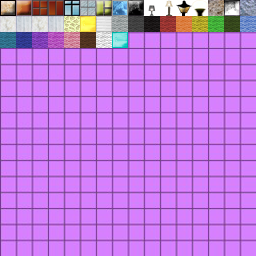
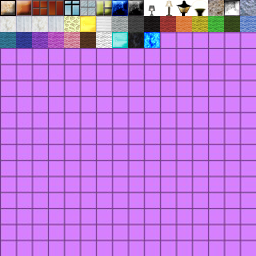
Updated to v1.2

Changed region(s): [[0.5, 0.125, 0.625, 0.1875], [0.4375, 0.0, 0.5, 0.0625]]

diff --git a/mod_CarpenterCraft.java b/mod_CarpenterCraft.java
@@ -16,6 +16,7 @@ public void load() {
 	MinecraftForgeClient.preloadTexture("/contractorcraft/gui/items.png");
 	ModLoader.setInGameHook(this, true, false);
 	ModLoader.setInGUIHook(this, true, false);
+	
 	/**  BLOCKS  **/
 	
 	/* Tiles */
@@ -108,6 +109,18 @@ public void load() {
 	ModLoader.addRecipe(new ItemStack(ContractAddBlocks.marbleBlock, 1),
 	new Object [] {"###", "###", "###", Character.valueOf('#'), ContractAddItems.marbleRock});
     
+	// Black Marble Block //
+	ModLoader.registerBlock(ContractAddBlocks.bmarbleBlock);
+	ModLoader.addName(ContractAddBlocks.bmarbleBlock, "Marble Block");
+	ModLoader.addShapelessRecipe(new ItemStack(ContractAddBlocks.bmarbleBlock, 1),
+    new Object[] {new ItemStack(ContractAddBlocks.marbleBlock, 1), new ItemStack(Item.dyePowder, 1, 0)});
+	
+	// Blue Marble Block //
+	ModLoader.registerBlock(ContractAddBlocks.blmarbleBlock);
+	ModLoader.addName(ContractAddBlocks.blmarbleBlock, "Marble Block");
+	ModLoader.addShapelessRecipe(new ItemStack(ContractAddBlocks.blmarbleBlock, 1),
+    new Object[] {new ItemStack(ContractAddBlocks.marbleBlock, 1), new ItemStack(Item.dyePowder, 1, 4)});
+		
     // Travertine Block //
     ModLoader.registerBlock(ContractAddBlocks.travertineBlock);
     ModLoader.addName(ContractAddBlocks.travertineBlock, "Travertine Block");
@@ -341,6 +354,14 @@ public void load() {
 	ModLoader.addRecipe(new ItemStack(ContractAddBlocks.rWoolSlab, 6),
 	new Object [] {"   ", "   ", "###", Character.valueOf('#'), new ItemStack(Block.cloth, 1, 14)});
 	
+	/* Pillars */
+	// Marble //
+	ContractPillarRender marblePillar = new ContractPillarRender();
+	ModLoader.registerTileEntity(net.minecraft.src.ContractTileEntity.class, "marblePillarEntity", marblePillar);
+	ModLoader.addName(ContractAddItems.marblePillar, "Marble Pillar");
+	ContractAddItems.marblePillar.iconIndex = ModLoader.addOverride("/gui/items.png", "/carpentercraft/sb/pillaritem.png");
+    ModLoader.addRecipe(new ItemStack(ContractAddItems.marblePillar, 3),
+    new Object [] {" # ", " # ", " # ", Character.valueOf('#'), ContractAddBlocks.marbleBlock});
 	
 	/* Other */
     
@@ -384,9 +405,7 @@ public void load() {
     ModLoader.addShapelessRecipe(new ItemStack(ContractAddItems.rawtTile2, 4),
     new Object[] {new ItemStack(ContractAddItems.rawtTile, 1)});
     
-    //testballs//
-    ModLoader.registerBlock(ContractAddBlocks.cornertest);
-    ModLoader.addName(ContractAddBlocks.cornertest, "corner Test");
+
 
 	
 
@@ -409,12 +428,12 @@ public void generateSurface(World world, Random random, int chunkX, int chunkZ)
                     (new WorldGenMinable(ContractAddBlocks.marble.blockID, 10)).generate(world, random, randPosX, randPosY, randPosZ);
               
             }
-        }
+}
 
 
 public String getVersion() {
 
-		return "v1.1 for Minecraft 1.2.5";
+		return "v1.2 for Minecraft 1.2.5";
 	}
 public boolean onTickInGame(float f, Minecraft minecraft)
 {
@@ -424,6 +443,7 @@ public boolean onTickInGame(float f, Minecraft minecraft)
   }
   return true;
 }
+@SuppressWarnings({ "rawtypes", "unchecked" })
 public boolean onTickInGUI(float f, Minecraft minecraft, GuiScreen guiscreen)
 {
   if((guiscreen instanceof GuiContainerCreative) && !(creativeInventory instanceof GuiContainerCreative) && !minecraft.theWorld.isRemote)
@@ -447,6 +467,9 @@ public boolean onTickInGUI(float f, Minecraft minecraft, GuiScreen guiscreen)
    list.add(new ItemStack(ContractAddBlocks.streetLamp2, 1, i));
    list.add(new ItemStack(ContractAddBlocks.marbleBlock, 1, i));
    list.add(new ItemStack(ContractAddBlocks.travertineBlock, 1, i));
+   list.add(new ItemStack(ContractAddBlocks.bmarbleBlock, 1, i));
+   list.add(new ItemStack(ContractAddBlocks.blmarbleBlock, 1, i));
+   list.add(new ItemStack(ContractAddItems.marblePillar, 1, i));
    list.add(new ItemStack(ContractAddBlocks.marbleStairs, 1, i));
    list.add(new ItemStack(ContractAddBlocks.travStairs, 1, i));
    list.add(new ItemStack(ContractAddBlocks.endStairs, 1, i));
@@ -491,8 +514,8 @@ public boolean onTickInGUI(float f, Minecraft minecraft, GuiScreen guiscreen)
    list.add(new ItemStack(ContractAddBlocks.brWoolSlab, 1, i));
    list.add(new ItemStack(ContractAddBlocks.gnWoolSlab, 1, i));
    list.add(new ItemStack(ContractAddBlocks.lbWoolSlab, 1, i));
-   list.add(new ItemStack(ContractAddBlocks.cornertest, 1, i));
 
+   
 
   }
   creativeInventory = guiscreen;

diff --git a/ContractPillarItem.java b/ContractPillarItem.java
@@ -1,0 +1,86 @@
+package net.minecraft.src;
+
+public class ContractPillarItem extends Item
+{
+    private int spawnID;
+
+    public ContractPillarItem(int par1, Block par2Block)
+    {
+        super(par1);
+        this.spawnID = par2Block.blockID;
+    }
+
+    public boolean onItemUse(ItemStack par1ItemStack, EntityPlayer par2EntityPlayer, World par3World, int par4, int par5, int par6, int par7)
+    {
+        int var8 = par3World.getBlockId(par4, par5, par6);
+
+        if (var8 == Block.snow.blockID)
+        {
+            par7 = 1;
+        }
+        else if (var8 != Block.vine.blockID && var8 != Block.tallGrass.blockID && var8 != Block.deadBush.blockID)
+        {
+            if (par7 == 0)
+            {
+                --par5;
+            }
+
+            if (par7 == 1)
+            {
+                ++par5;
+            }
+
+            if (par7 == 2)
+            {
+                --par6;
+            }
+
+            if (par7 == 3)
+            {
+                ++par6;
+            }
+
+            if (par7 == 4)
+            {
+                --par4;
+            }
+
+            if (par7 == 5)
+            {
+                ++par4;
+            }
+        }
+
+        if (!par2EntityPlayer.canPlayerEdit(par4, par5, par6))
+        {
+            return false;
+        }
+        else if (par1ItemStack.stackSize == 0)
+        {
+            return false;
+        }
+        else
+        {
+            if (par3World.canBlockBePlacedAt(this.spawnID, par4, par5, par6, false, par7))
+            {
+                Block var9 = Block.blocksList[this.spawnID];
+
+                if (par3World.setBlockWithNotify(par4, par5, par6, this.spawnID))
+                {
+                    if (par3World.getBlockId(par4, par5, par6) == this.spawnID)
+                    {
+                        Block.blocksList[this.spawnID].onBlockPlaced(par3World, par4, par5, par6, par7);
+                        Block.blocksList[this.spawnID].onBlockPlacedBy(par3World, par4, par5, par6, par2EntityPlayer);
+                    }
+
+                    par3World.playSoundEffect((double)((float)par4 + 0.5F), (double)((float)par5 + 0.5F), (double)((float)par6 + 0.5F), var9.stepSound.getStepSound(), (var9.stepSound.getVolume() + 1.0F) / 2.0F, var9.stepSound.getPitch() * 0.8F);
+                    --par1ItemStack.stackSize;
+                }
+            }
+
+            return true;
+        }
+    }
+
+
+}

diff --git a/ContractAddBlocks.java b/ContractAddBlocks.java
@@ -62,10 +62,16 @@ public class ContractAddBlocks {
 	/** Building Blocks **/
 	public static final Block marbleBlock = new ContractBlock(165,
 	16).setHardness(1.0F).setStepSound(Block.soundStoneFootstep)
-	.setBlockName("marBlock");
+	.setBlockName("marbleBlock");
 	public static final Block travertineBlock = new ContractBlock(166,
 	17).setHardness(1.1F).setStepSound(Block.soundStoneFootstep)
 	.setBlockName("travertineBlock");
+	public static final Block bmarbleBlock = new ContractBlock(212,
+	40).setHardness(1.0F).setStepSound(Block.soundStoneFootstep)
+	.setBlockName("marbleBlock");
+	public static final Block blmarbleBlock = new ContractBlock(213,
+	41).setHardness(1.0F).setStepSound(Block.soundStoneFootstep)
+	.setBlockName("marbleBlock");
 	
 	/** Stairs **/
 	public static final Block marbleStairs = new ContractStairs(167,
@@ -113,9 +119,7 @@ public class ContractAddBlocks {
 	37).setHardness(3F).setResistance(4F).setBlockName("woolStairs");
 	public static final Block wwWoolStairs = new ContractStairs(208,
 	38).setHardness(3F).setResistance(4F).setBlockName("woolStairs");
-	// Corner stairs? //
-	public static final Block cornertest = new ContractCornerStairs(211,
-	38).setHardness(3F).setResistance(4F).setBlockName("cornerStairs");
+
 	
 	/** Slabs **/
 	public static final Block marbleSlab = new ContractSlabs(187,
@@ -163,6 +167,10 @@ public class ContractAddBlocks {
 	37).setHardness(3F).setResistance(4F).setBlockName("woolSlab");
 	public static final Block wwWoolSlab = new ContractSlabs(207,
 	38).setHardness(3F).setResistance(4F).setBlockName("woolSlab");
+	
+	/** Pillars **/
+	// Marble //
+	public static Block marblePillar = new ContractPillar(211, net.minecraft.src.ContractTileEntity.class).setResistance(.5F).setHardness(1F).setBlockName("marblePillar");
 	
 
 	/** Other Blocks **/

diff --git a/ContractPillarModel.java b/ContractPillarModel.java
@@ -1,0 +1,52 @@
+// Date: 5/31/2012 7:53:02 PM
+// Template version 1.1
+// Java generated by Techne
+// Keep in mind that you still need to fill in some blanks
+// - ZeuX
+package net.minecraft.src;
+
+public class ContractPillarModel extends ModelBase
+{
+  //fields
+    ModelRenderer Shape1;
+    
+  public ContractPillarModel()
+  {
+	  	textureWidth = 64;
+	    textureHeight = 32;
+	    
+	      Shape1 = new ModelRenderer(this, 0, 0);
+	      Shape1.addBox(0F, 0F, 0F, 12, 16, 12);
+	      Shape1.setRotationPoint(-6F, 8F, -6F);
+	      Shape1.setTextureSize(64, 32);
+	      Shape1.mirror = true;
+	      setRotation(Shape1, 0F, 0F, 0F);
+	  }
+	  
+	  public void render(Entity entity, float f, float f1, float f2, float f3, float f4, float f5)
+	  {
+	    super.render(entity, f, f1, f2, f3, f4, f5);
+	    setRotationAngles(f, f1, f2, f3, f4, f5);
+	    Shape1.render(f5);
+	  }
+	  
+	  private void setRotation(ModelRenderer model, float x, float y, float z)
+	  {
+	    model.rotateAngleX = x;
+	    model.rotateAngleY = y;
+	    model.rotateAngleZ = z;
+	  }
+	  
+	  public void setRotationAngles(float f, float f1, float f2, float f3, float f4, float f5)
+	  {
+	    super.setRotationAngles(f, f1, f2, f3, f4, f5);
+	  }
+
+  public void renderModel(float f1)
+  {
+         Shape1.render(f1);
+  }
+ 
+
+
+}

diff --git a/ContractPillar.java b/ContractPillar.java
@@ -1,0 +1,46 @@
+package net.minecraft.src;
+import java.util.Random;
+
+public class ContractPillar extends BlockContainer
+{
+private Class TestEntityClass;
+protected ContractPillar(int i, Class tClass)
+  {
+        super(i,Material.wood);
+        TestEntityClass = tClass;
+  }
+  
+        public TileEntity getBlockEntity()
+        {
+                        try{
+                           return (TileEntity)TestEntityClass.newInstance();
+                        }
+                        catch(Exception exception){
+                                        throw new RuntimeException(exception);
+                        }
+        }
+  
+        public int idDropped(int i, Random random, int j)
+        {
+                return ContractAddItems.marblePillar.shiftedIndex;
+        }
+  
+        public int quanityDropped(Random random)
+        {
+           return 1;
+          			}
+  
+        public int getRenderType(){
+        	return -1;
+        }
+  
+        public boolean isOpaqueCube()
+        {
+                return false;
+        }
+  
+        public boolean renderAsNormalBlock()
+        {
+                return false;
+        }
+}

diff --git a/ContractPillarRender.java b/ContractPillarRender.java
@@ -1,0 +1,26 @@
+package net.minecraft.src;
+import org.lwjgl.opengl.GL11;
+public class ContractPillarRender extends TileEntitySpecialRenderer
+{
+        public ContractPillarRender()
+        {
+                pillarModel = new ContractPillarModel();
+        }
+
+        public void renderAModelAt(ContractTileEntity tileentity1, double d, double d1, double d2, float f)
+        {  
+                GL11.glPushMatrix();
+                GL11.glTranslatef((float)d + 0.5F, (float)d1 - 0.5F, (float)d2 + 0.5F);
+                bindTextureByName("/carpentercraft/sb/pillar.png");
+                GL11.glPushMatrix();
+                pillarModel.renderModel(0.0625F);
+                GL11.glPopMatrix();     
+                GL11.glPopMatrix();                                     
+        }
+        public void renderTileEntityAt(TileEntity tileentity, double d, double d1, double d2,
+                        float f)
+        {
+                renderAModelAt((ContractTileEntity)tileentity, d, d1, d2, f);
+        }
+        private ContractPillarModel pillarModel;
+}

diff --git a/ContractAddItems.java b/ContractAddItems.java
@@ -2,6 +2,8 @@ package net.minecraft.src;
 
 public class ContractAddItems {
 
+	/** Pillars **/
+	public static final Item marblePillar = new ContractPillarItem(6000, ContractAddBlocks.marblePillar).setItemName("marblePillar");
 	/** Misc. **/
 	public static final Item travRock = new ContractGenItems(149).setIconIndex(0).setItemName("travRock");
 	public static final Item marbleRock = new ContractGenItems(150).setIconIndex(1).setItemName("marbleRock");

diff --git a/ContractTileEntity.java b/ContractTileEntity.java
@@ -1,0 +1,5 @@
+package net.minecraft.src;
+
+public class ContractTileEntity extends TileEntity {
+
+}
